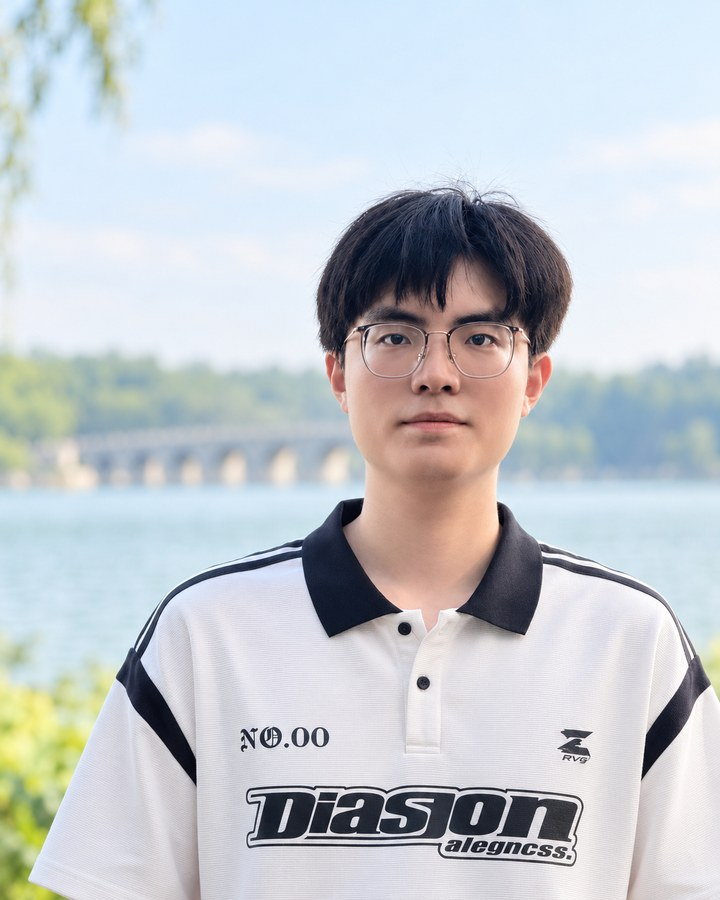
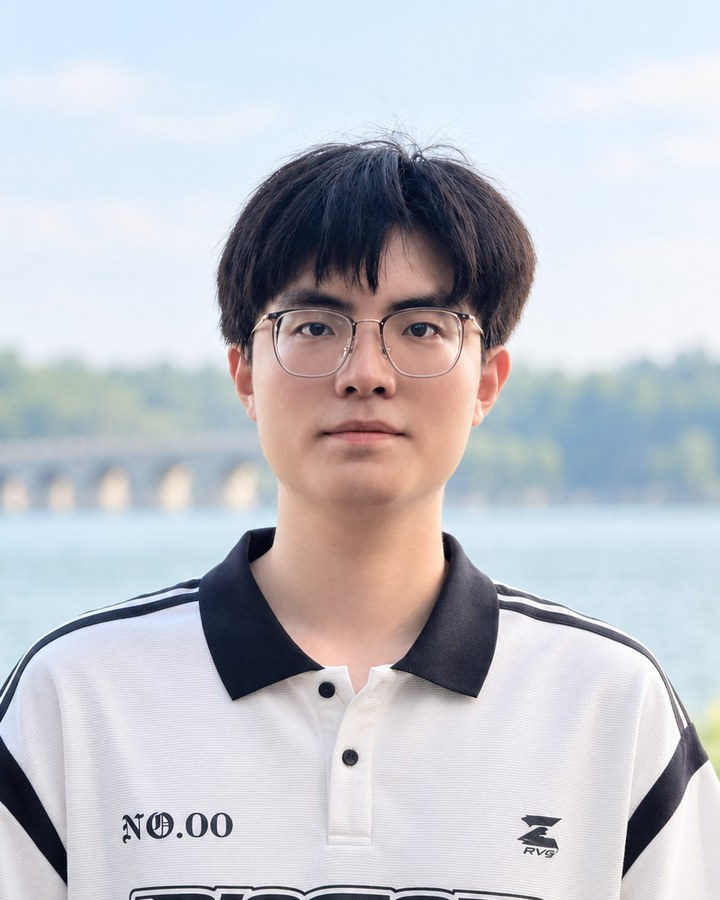
Add Teaching and Professional Services cards; zoom portrait in a bit

diff --git a/_includes/widgets/experience_card.html b/_includes/widgets/experience_card.html
@@ -1,7 +1,9 @@
 {%- comment -%}
-  Experience / Education / Honors & Awards, each in its own card (in that order).
-  Data: _data/profile.yml -> experience, education, awards. `logo` is optional.
+  Experience / Education / Honors & Awards / Teaching / Professional Services, each in its own card (in that order).
+  Data: _data/profile.yml -> experience, education, awards, teaching, services. `logo` is optional.
 {%- endcomment -%}
 {%- include widgets/cv_section.html items=site.data.profile.experience title="Experience" icon="fas fa-briefcase" -%}
 {%- include widgets/cv_section.html items=site.data.profile.education title="Education" icon="fas fa-graduation-cap" -%}
 {%- include widgets/cv_section.html items=site.data.profile.awards title="Honors &amp; Awards" icon="fas fa-award" -%}
+{%- include widgets/cv_section.html items=site.data.profile.teaching title="Teaching" icon="fas fa-chalkboard-user" -%}
+{%- include widgets/cv_section.html items=site.data.profile.services title="Professional Services" icon="fas fa-handshake-angle" -%}

diff --git a/_includes/widgets/cv_section.html b/_includes/widgets/cv_section.html
@@ -1,6 +1,6 @@
 {%- comment -%}
   One CV card. Params: items (list), title, icon (Font Awesome classes).
-  Each item: name, position, date, logo (optional).
+  Each item: name, position, date, logo or icon (optional).
 {%- endcomment -%}
 {%- assign items = include.items -%}
 {%- if items and items.size > 0 %}
@@ -11,6 +11,8 @@
         <li class="media py-2{% unless forloop.first %} border-top border-gray{% endunless %}">
             {%- if item.logo %}
             <img src="{{ item.logo | relative_url }}" alt="" class="cv-logo mr-3">
+            {%- elsif item.icon %}
+            <span class="cv-logo cv-logo-fallback cv-logo-icon mr-3"><i class="{{ item.icon }}"></i></span>
             {%- else %}
             <span class="cv-logo cv-logo-fallback mr-3"><i class="fas fa-building-columns text-muted"></i></span>
             {%- endif %}

diff --git a/assets/css/global.css b/assets/css/global.css
@@ -406,3 +406,11 @@ a {
 a:hover {
     color: #0f5aa8;
 }
+
+/* Icon in place of a logo (e.g. Professional Services) */
+.cv-logo-icon {
+    border-radius: 50%;
+    background: #e3efff;
+    color: #1a4f8f;
+    font-size: 1.3rem;
+}
